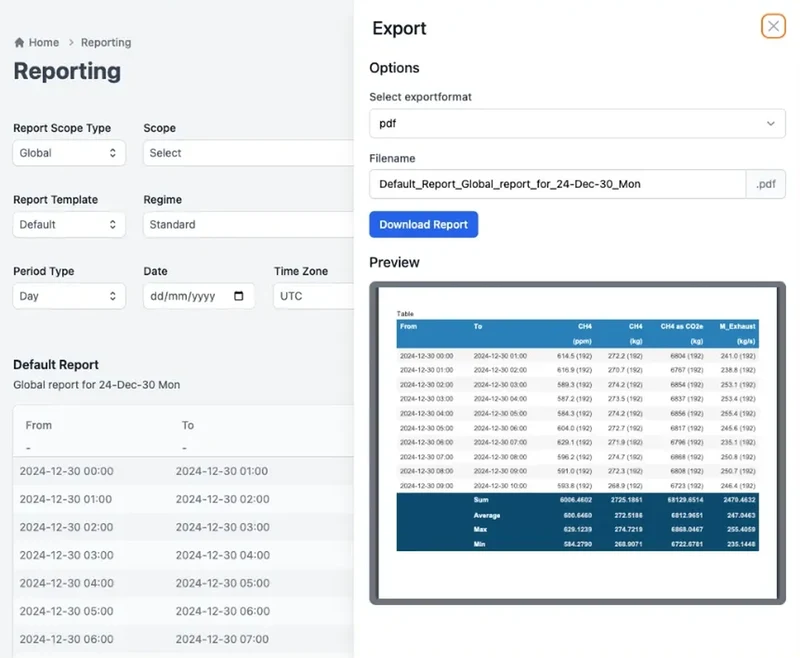
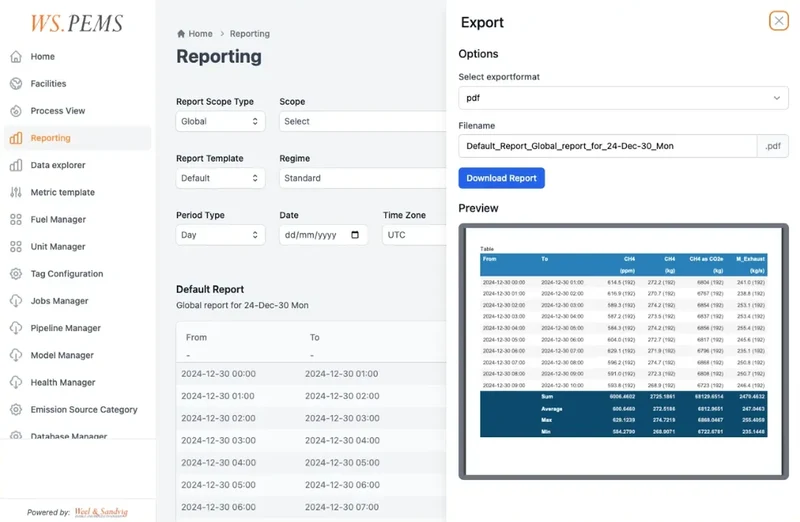
Industry Transformation: show full WS PEMS reporting screen without cropping
Claude-Session: https://claude.ai/code/session_019gMymePghk3WRCpa2UPwxG

diff --git a/v3bf/industry-transformation.html b/v3bf/industry-transformation.html
@@ -21,7 +21,7 @@
   <link rel="icon" href="../assets/img/logo.png">
   <link rel="preconnect" href="https://fonts.googleapis.com">
   <link rel="preconnect" href="https://fonts.gstatic.com" crossorigin>
-  <link rel="preload" as="image" href="../assets/img/services/ws-pems-report.webp" imagesrcset="../assets/img/services/ws-pems-report-800.webp 800w, ../assets/img/services/ws-pems-report.webp 1440w" imagesizes="100vw" fetchpriority="high">
+  <link rel="preload" as="image" href="../assets/img/services/ws-pems-report.webp" imagesrcset="../assets/img/services/ws-pems-report-800.webp 800w, ../assets/img/services/ws-pems-report.webp 1629w" imagesizes="100vw" fetchpriority="high">
   <link href="https://fonts.googleapis.com/css2?family=Readex+Pro:wght@400;500;600;700&family=IBM+Plex+Sans:wght@400;500;600&display=swap" rel="stylesheet">
   <link rel="stylesheet" href="../assets/css/styles.css?v=ba67df1f">
   <link rel="stylesheet" href="../assets/css/services.css?v=f5efd716">
@@ -59,7 +59,7 @@
           <p class="mg__p1">A&#x27;amal Group partners with Weel &amp; Sandvig to bring model-based emission monitoring and energy-efficiency technology to industry in the Kingdom.</p>
           <div class="mg__meta"><div class="ov__partner2"><a class="ov__logo" href="https://weel-sandvig.com/" target="_blank" rel="noopener" aria-label="Weel &amp; Sandvig website"><img src="../assets/img/partners/logo-weel-sandvig.svg" width="232" height="46" alt="Weel &amp; Sandvig logo" loading="lazy" decoding="async"></a><a class="text-link" href="https://weel-sandvig.com/" target="_blank" rel="noopener">Read more about Weel &amp; Sandvig <svg viewBox="0 0 24 24" width="14" height="14" fill="none" stroke="currentColor" stroke-width="2" aria-hidden="true"><path d="M14 4h6v6M20 4l-9 9M18 14v6H4V6h6"/></svg></a></div><div class="mg__ind"><span>Industries we serve</span><ul class="chips"><li>Oil &amp; gas</li><li>Power generation</li><li>Chemicals</li><li>Pulp &amp; paper</li><li>Food manufacturing</li><li>Maritime</li></ul></div></div>
         </div>
-        <div class="mg__media"><img class="mg__img" src="../assets/img/services/ws-pems-report.webp" srcset="../assets/img/services/ws-pems-report-800.webp 800w, ../assets/img/services/ws-pems-report.webp 1440w" sizes="(max-width: 1240px) 100vw, 1200px" width="1440" height="1184" alt="WS PEMS emissions reporting by Weel &amp; Sandvig" style="object-position:40% center" fetchpriority="high"></div>
+        <div class="mg__media"><img class="mg__img" src="../assets/img/services/ws-pems-report.webp" srcset="../assets/img/services/ws-pems-report-800.webp 800w, ../assets/img/services/ws-pems-report.webp 1629w" sizes="(max-width: 1240px) 100vw, 1200px" width="1629" height="1062" alt="WS PEMS emissions reporting by Weel &amp; Sandvig" style="object-fit:contain;background:#fff" fetchpriority="high"></div>
       </div>
     </section>
 
